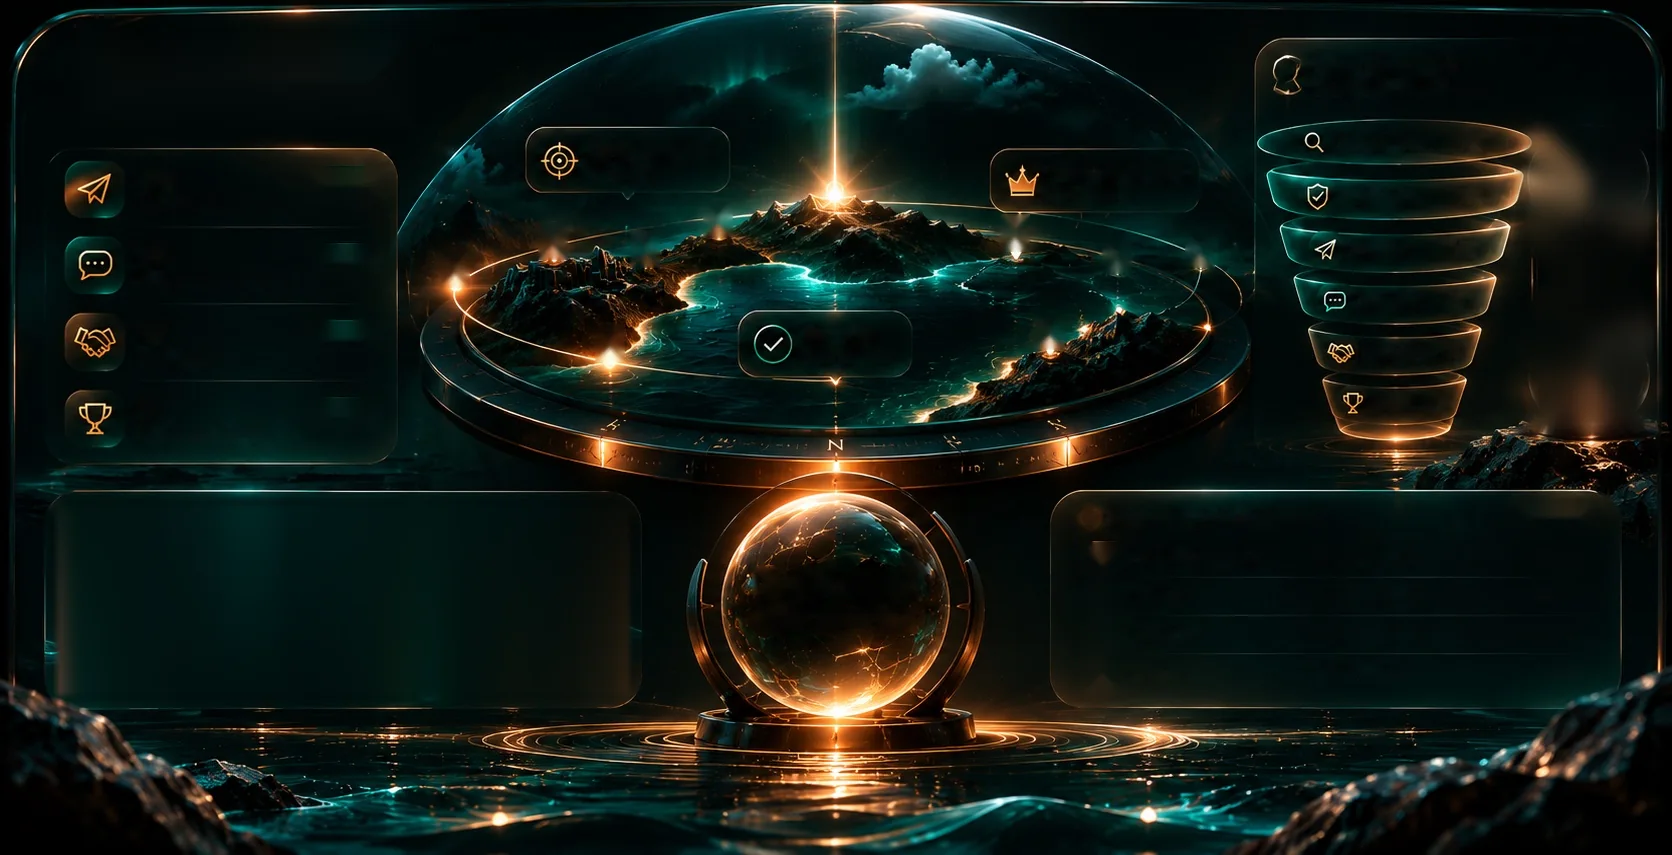
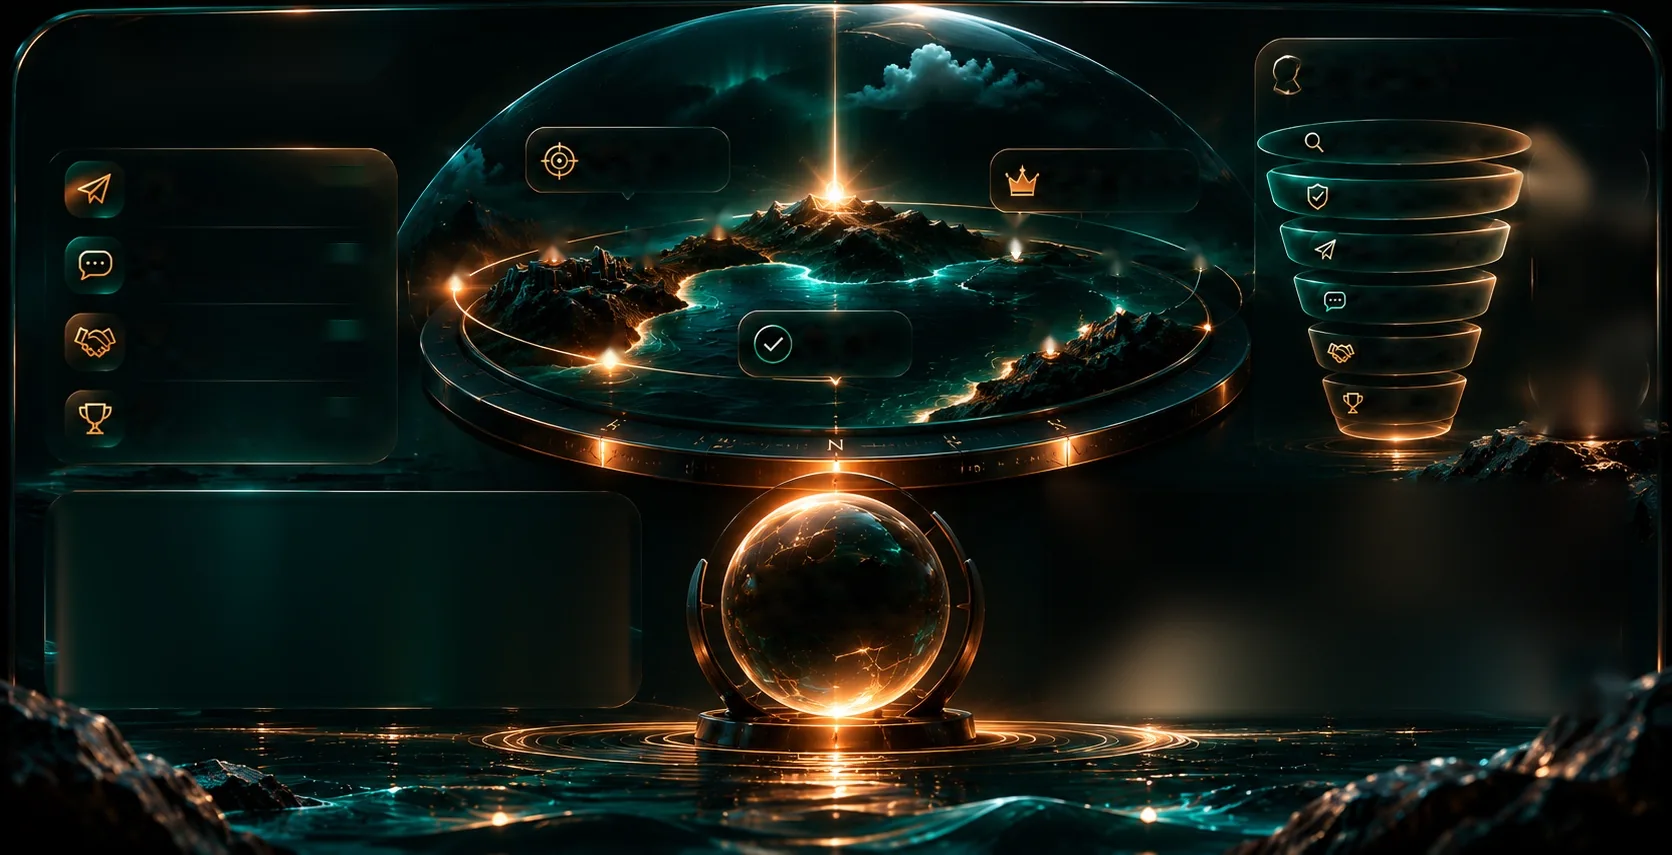
Selos dos indicadores com a cápsula da arte e remove Movimentações Recentes
Selos usam a cápsula original e mostram a variação real (ou ↑ +N quando
o mês anterior não teve registros); cores dos números e rótulos medidas
na referência. O cartão de Movimentações sai do painel e da arte, com o
fundo reconstruído.

Claude-Session: https://claude.ai/code/session_01RmfREUP7wfMtsRefbbTiFn

diff --git a/painel-prospeccao.css b/painel-prospeccao.css
@@ -16,7 +16,7 @@
 .pv-palco{position:relative;container-type:inline-size;display:grid;gap:14px;padding:14px}
 .pv-m{position:relative;container-type:inline-size;min-width:0}
 .pv-kpi{--k:calc(100cqw / 356)}.pv-cupula{--k:calc(100cqw / 867)}.pv-fluxo{--k:calc(100cqw / 422)}
-.pv-ritmo{--k:calc(100cqw / 598)}.pv-foco{--k:calc(100cqw / 355)}.pv-mov{--k:calc(100cqw / 574)}
+.pv-ritmo{--k:calc(100cqw / 598)}.pv-foco{--k:calc(100cqw / 355)}
 .pv-fundo,.pv-fx,.pv-placa,.pv-agua{position:absolute;inset:0;width:100%;height:100%;pointer-events:none}
 .pv-fx{z-index:2}
 .pv-placa,.pv-agua{display:none}
@@ -31,14 +31,19 @@
 /* Indicadores */
 .pv-kpi{aspect-ratio:356/322;width:100%;max-width:520px;justify-self:center}
 .pv-kpi .pv-fundo{background:url(ativos/painel/cena.webp) no-repeat;background-size:calc(1672 * var(--k)) auto;background-position:calc(-44 * var(--k)) calc(-144 * var(--k));border-radius:calc(22 * var(--k))}
-.pv-num{font-weight:500;color:#f7dfc6;letter-spacing:-.01em;font-variant-numeric:tabular-nums;text-shadow:0 0 14px #ffb06a2e}
-.pv-rot{color:#cbd2d0}
+.pv-num{font-weight:500;color:#f8d6a8;letter-spacing:-.01em;font-variant-numeric:tabular-nums;text-shadow:0 0 14px #ffb06a2e}
+.pv-rot{color:#c9c9c9}
 .pv-kpi-linha{z-index:4;border-radius:calc(14 * var(--k));transition:background .35s,box-shadow .35s}
 .pv-kpi-linha:hover{background:radial-gradient(80% 120% at 20% 50%,#f3a45e1c,transparent 70%);box-shadow:inset 0 0 0 1px #f3a45e2e}
-.pv-pilula{z-index:3;display:grid;place-items:center;border-radius:999px;font-size:max(calc(12.5 * var(--k)),10px);font-weight:600;color:#7ff0cb;letter-spacing:.01em;background:linear-gradient(180deg,#1b5a4ccc,#0e3a33d9);border:1px solid #6be6c247;box-shadow:inset 0 1px 0 #b6fff01f,0 0 calc(14 * var(--k)) #3fe0b828;white-space:nowrap;pointer-events:none;animation:pv-pilula 4.5s ease-in-out infinite}
-.pv-pilula.pv-queda{color:#ffb39a;background:linear-gradient(180deg,#5a2a1bcc,#3a1a10d9);border-color:#ff9f7d47}
-.pv-pilula:not(.pv-alta):not(.pv-queda){color:#b9c8c5;background:linear-gradient(180deg,#233a38cc,#13201fd9);border-color:#9fc8c033}
-@keyframes pv-pilula{50%{box-shadow:inset 0 1px 0 #b6fff01f,0 0 calc(22 * var(--k)) #3fe0b84a}}
+.pv-pilula{z-index:3;display:grid;place-items:center;pointer-events:none;overflow:visible}
+.pv-pilula img{position:absolute;inset:0;width:100%;height:100%;transition:filter .4s}
+.pv-pilula b{position:relative;font-weight:500;font-size:max(calc(13.4 * var(--k)),9px);line-height:1;letter-spacing:0;color:#3fd4c2;text-shadow:0 0 calc(5 * var(--k)) #1fd6b066;white-space:nowrap;margin-top:calc(-2.5 * var(--k));font-variant-numeric:tabular-nums}
+.pv-pilula:after{content:"";position:absolute;left:calc(12 * var(--k));top:calc(9 * var(--k));width:calc(62 * var(--k));height:calc(24 * var(--k));border-radius:999px;background:linear-gradient(100deg,transparent 30%,#d8fff533 47%,#ffffff40 50%,transparent 64%) no-repeat;background-size:260% 100%;mix-blend-mode:screen;animation:pv-selo-brilho 5.5s ease-in-out infinite;animation-delay:calc(var(--y) * -.013s)}
+@keyframes pv-selo-brilho{0%,35%{background-position:130% 0}75%,100%{background-position:-40% 0}}
+.pv-pilula.pv-queda img{filter:hue-rotate(185deg) saturate(1.35) brightness(1.05)}
+.pv-pilula.pv-queda b{color:#ffb39a;text-shadow:0 0 calc(6 * var(--k)) #ff7a4a99}
+.pv-pilula:not(.pv-alta):not(.pv-queda) img{filter:grayscale(.9) brightness(.85)}
+.pv-pilula:not(.pv-alta):not(.pv-queda) b{color:#c3cfcc;text-shadow:none}
 .pv-kpi:after{content:"";position:absolute;z-index:2;pointer-events:none;left:calc(5 * var(--k));top:calc(6 * var(--k));width:calc(346 * var(--k));height:calc(312 * var(--k));border-radius:calc(20 * var(--k));background:linear-gradient(105deg,transparent 35%,#ffffff12 48%,#7ff0cb0d 52%,transparent 65%) no-repeat;background-size:250% 100%;animation:pv-brilho 7s ease-in-out infinite}
 @keyframes pv-brilho{0%{background-position:150% 0}55%,100%{background-position:-60% 0}}
 
@@ -73,10 +78,9 @@
 
 /* Ritmo */
 .pv-ritmo{border-radius:20px;background:linear-gradient(160deg,#0f2a27e6,#071816f0 55%,#0b1f1de6);border:1px solid #84f0d83a;box-shadow:inset 0 1px 0 #c8fff01a,0 16px 30px #0006;padding:16px 14px 12px}
-.pv-ritmo .pv-fundo,.pv-mov .pv-fundo,.pv-foco .pv-fundo{display:block}
-.pv-ritmo .pv-fundo,.pv-mov .pv-fundo{display:none}
+.pv-ritmo .pv-fundo{display:none}
+.pv-ritmo-cab .pv-t{position:static;height:auto;line-height:1.25;font-size:inherit}
 .pv-ritmo-cab{position:relative;padding-left:62px;min-height:46px}
-.pv-ritmo-cab .pv-t,.pv-mov-cab .pv-t{position:static;height:auto;line-height:1.25;font-size:inherit}
 .pv-ritmo-cab .pv-tit{font-size:17px}.pv-ritmo-cab .pv-sub{font-size:12.5px;margin-top:3px}
 .pv-pulso{position:absolute;z-index:4;left:8px;top:12px;width:56px;height:44px}
 .pv-pulso img{display:block;width:100%;height:100%}
@@ -104,29 +108,6 @@
 .pv-foco-2{color:#ffc583;text-shadow:0 0 10px #ff8a3a88,0 1px 2px #000c}
 
 /* Movimentações */
-.pv-mov{border-radius:20px;background:linear-gradient(160deg,#10231fe6,#081513f0 60%,#0c1c1ae6);border:1px solid #84f0d83a;box-shadow:inset 0 1px 0 #c8fff01a,0 16px 30px #0006;padding:14px}
-.pv-mov-cab{position:relative;display:flex;align-items:center;gap:10px;padding-right:90px;min-height:28px}
-.pv-mov-cab .pv-tit{font-size:16.5px}
-.pv-mov-brilho{position:static!important;width:15px!important;height:17px!important;color:#ffb36a;filter:drop-shadow(0 0 5px #ff9a4a);animation:pv-cintila 2.6s ease-in-out infinite}
-.pv-mov-brilho .pv-icone{fill:currentColor;stroke:none}
-@keyframes pv-cintila{50%{transform:scale(.7) rotate(45deg);opacity:.7}}
-.pv-aovivo{position:absolute!important;right:0;left:auto!important;top:50%!important;translate:0 -50%;width:auto!important;height:auto!important;display:inline-flex;align-items:center;gap:7px;padding:4px 11px;border-radius:999px;background:#0f3a33cc;border:1px solid #6be6c23d;font-size:12.5px;color:#c6f6e8;white-space:nowrap}
-.pv-aovivo i{width:7px;height:7px;border-radius:50%;background:#3df0b4;box-shadow:0 0 0 0 #3df0b4aa;animation:pv-vivo 1.8s ease-out infinite}
-@keyframes pv-vivo{70%{box-shadow:0 0 0 7px #3df0b400}100%{box-shadow:0 0 0 0 #3df0b400}}
-.pv-lista{list-style:none;margin:10px 0 0;padding:0}
-.pv-mov-item{animation:pv-entra .6s cubic-bezier(.2,.7,.2,1) both;animation-delay:calc(var(--i) * 90ms)}
-@keyframes pv-entra{from{opacity:0;translate:0 8px}}
-.pv-mov-linha{position:relative!important;left:auto!important;top:auto!important;width:100%!important;height:auto!important;display:grid;grid-template-columns:36px minmax(0,1fr) auto;grid-template-rows:auto auto;column-gap:11px;row-gap:2px;align-items:center;padding:9px 4px;border-top:1px solid #8ff0da1a;border-radius:0}
-.pv-mov-item:first-child .pv-mov-linha{border-top:0}
-.pv-mov-linha .pv-t{position:static;height:auto;line-height:1.3;font-size:13.5px;min-width:0;overflow:hidden;text-overflow:ellipsis}
-.pv-mini{position:relative!important;left:auto!important;top:auto!important;width:36px!important;height:34px!important;grid-row:1/3}
-.pv-mov-nome{grid-column:2;color:#f0f4f2;font-weight:500;font-size:14px!important}
-.pv-mov-desc{grid-column:2;grid-row:2;color:var(--pv-suave);font-size:12.5px!important}
-.pv-mov-tempo{grid-column:3;grid-row:1/3;color:#cfd9d6;font-size:12.5px!important}
-button.pv-mov-linha:hover{background:linear-gradient(90deg,#f3a45e14,transparent 70%)}
-.pv-ladrilho{display:grid;place-items:center;border-radius:10px;color:#ffb36e;background:radial-gradient(110% 95% at 25% 15%,#9a5626,#4a2812 45%,#1c120b 80%);border:1px solid #f6a76459;box-shadow:inset 0 1px 0 #ffd3a44d,inset 0 -6px 10px #0006,0 0 14px #ff8a3a40;padding:6px}
-.pv-ladrilho .pv-icone{filter:drop-shadow(0 0 3px #ff9a4a99)}
-.pv-mov-vazio{padding:14px 4px 6px;color:var(--pv-suave);font-size:13px;line-height:1.5}
 
 /* Celular: balões da cúpula viram três cartões logo abaixo da ilha */
 .pv-palco:not(.pv-replica) .pv-cupula{margin-bottom:clamp(66px,19cqw,84px)}
@@ -140,7 +121,8 @@ button.pv-mov-linha:hover{background:linear-gradient(90deg,#f3a45e14,transparent
  .pv-palco:not(.pv-replica){grid-template-columns:1fr 1fr;align-items:start}
  .pv-palco:not(.pv-replica) .pv-balao .pv-t{font-size:14px}.pv-palco:not(.pv-replica) .pv-balao .pv-b2{font-size:12px}
  .pv-palco:not(.pv-replica) .pv-cupula,.pv-palco:not(.pv-replica) .pv-ritmo{grid-column:1/-1}
- .pv-palco:not(.pv-replica) .pv-fluxo{order:1}.pv-palco:not(.pv-replica) .pv-cupula{order:2}.pv-palco:not(.pv-replica) .pv-ritmo{order:3}.pv-palco:not(.pv-replica) .pv-foco{order:4}.pv-palco:not(.pv-replica) .pv-mov{order:5;align-self:center}
+ .pv-palco:not(.pv-replica) .pv-foco{grid-column:1/-1}
+ .pv-palco:not(.pv-replica) .pv-fluxo{order:1}.pv-palco:not(.pv-replica) .pv-cupula{order:2}.pv-palco:not(.pv-replica) .pv-ritmo{order:3}.pv-palco:not(.pv-replica) .pv-foco{order:4}
 }
 
 /* Desktop: a composição inteira da referência */
@@ -154,25 +136,15 @@ button.pv-mov-linha:hover{background:linear-gradient(90deg,#f3a45e14,transparent
 .pv-replica .pv-fluxo{left:calc(1250 * var(--u) * 1px);top:calc(32 * var(--u) * 1px);width:calc(422 * var(--u) * 1px);height:calc(448 * var(--u) * 1px)}
 .pv-replica .pv-ritmo{left:calc(44 * var(--u) * 1px);top:calc(490 * var(--u) * 1px);width:calc(598 * var(--u) * 1px);height:calc(220 * var(--u) * 1px)}
 .pv-replica .pv-foco{left:calc(660 * var(--u) * 1px);top:calc(469 * var(--u) * 1px);width:calc(355 * var(--u) * 1px);height:calc(335 * var(--u) * 1px)}
-.pv-replica .pv-mov{left:calc(1048 * var(--u) * 1px);top:calc(489 * var(--u) * 1px);width:calc(574 * var(--u) * 1px);height:calc(221 * var(--u) * 1px)}
 .pv-replica .pv-ritmo-cab{position:static;padding:0;min-height:0}
-.pv-replica .pv-ritmo-cab .pv-t,.pv-replica .pv-mov-cab .pv-t{position:absolute;height:0;line-height:0;font-size:var(--fs)}
+.pv-replica .pv-ritmo-cab .pv-t{position:absolute;height:0;line-height:0;font-size:var(--fs)}
 .pv-replica .pv-pulso{left:calc(var(--x) * var(--k));top:calc(var(--y) * var(--k));width:calc(var(--w) * var(--k));height:calc(var(--h) * var(--k))}
 .pv-replica .pv-grafico{position:absolute;margin:0;left:calc(4 * var(--k));top:calc(24 * var(--k));width:calc(590 * var(--k));height:calc(156 * var(--k))}
 .pv-replica .pv-dias{display:block;margin:0}
 .pv-replica .pv-dia{position:absolute;left:calc(var(--cx) * var(--k));top:calc(182 * var(--k));width:calc(64 * var(--k));height:calc(23 * var(--k));margin-left:calc(-32 * var(--k));font-size:max(calc(13.5 * var(--k)),10px)}
-.pv-replica .pv-mov-cab{position:static;padding:0;min-height:0;display:block}
-.pv-replica .pv-mov-brilho{position:absolute!important;left:calc(var(--x) * var(--k));top:calc(var(--y) * var(--k));width:calc(16 * var(--k))!important;height:calc(18 * var(--k))!important}
-.pv-replica .pv-aovivo{left:calc(var(--x) * var(--k))!important;top:calc(var(--y) * var(--k))!important;right:auto;translate:none;width:calc(var(--w) * var(--k))!important;height:calc(var(--h) * var(--k))!important;padding:0 0 0 calc(10 * var(--k));gap:calc(8 * var(--k));font-size:max(calc(13 * var(--k)),10px)}
-.pv-replica .pv-aovivo i{width:calc(8 * var(--k));height:calc(8 * var(--k))}
-.pv-replica .pv-lista{margin:0}
-.pv-replica .pv-mov-linha{position:absolute!important;display:block;padding:0;border:0;left:calc(var(--x) * var(--k))!important;top:calc(var(--y) * var(--k))!important;width:calc(var(--w) * var(--k))!important;height:calc(var(--h) * var(--k))!important;border-radius:calc(8 * var(--k))}
-.pv-replica .pv-mov-linha .pv-t{position:absolute;height:0;line-height:0;font-size:var(--fs)!important;overflow:visible}
-.pv-replica .pv-mov-tempo{transform:translateX(-100%)}
-.pv-replica .pv-mini{position:absolute!important;left:calc(var(--x) * var(--k))!important;top:calc(var(--y) * var(--k))!important;width:calc(var(--w) * var(--k))!important;height:calc(var(--h) * var(--k))!important;padding:calc(7 * var(--k));border-radius:calc(9 * var(--k))}
-.pv-replica .pv-mov-vazio{position:absolute;left:calc(36 * var(--k));top:calc(64 * var(--k));right:calc(40 * var(--k));font-size:max(calc(14 * var(--k)),11px)}
 
 /* Movimento pausado ou reduzido */
 :root.movimento-pausado .pv-painel *,:root.movimento-pausado .pv-painel *:after,:root.movimento-pausado .pv-painel *:before{animation-play-state:paused!important}
 @media (prefers-reduced-motion:reduce){.pv-painel *,.pv-painel *:before,.pv-painel *:after{animation:none!important;transition:none!important}}
-body.alto-contraste .pv-sub,body.alto-contraste .pv-rot,body.alto-contraste .pv-mov-desc{color:#e3ecea}
+
+body.alto-contraste .pv-sub,body.alto-contraste .pv-rot{color:#e3ecea}

diff --git a/painel-prospeccao.js b/painel-prospeccao.js
@@ -148,9 +148,9 @@ export function calcularPainelOrbita(estado,agora=new Date()){
 
 const animarNumero=(el,valor)=>{const de=Number(el.dataset.v||0);el.dataset.v=valor;if(de===valor||matchMedia('(prefers-reduced-motion: reduce)').matches||document.documentElement.classList.contains('movimento-pausado')){el.textContent=inteiro(valor);return;}const t0=performance.now(),dur=900;const passo=a=>{const k=Math.min(1,(a-t0)/dur),e=1-Math.pow(1-k,3);el.textContent=inteiro(Math.round(de+(valor-de)*e));if(k<1)requestAnimationFrame(passo);};requestAnimationFrame(passo);};
 const pilula=({atual,anterior})=>{
- if(!anterior){return atual?['novo','pv-alta','Primeiro registro: não há base no mês anterior']:['—','','Sem registros neste mês e no anterior'];}
+ if(!anterior){return atual?['↑ +'+inteiro(atual),'pv-alta',inteiro(atual)+' a mais que no mês anterior, que não teve registros']:['+0','','Sem registros neste mês e no anterior'];}
  const pct=Math.round((atual-anterior)/anterior*100);
- return [(pct>0?'↑ +':pct<0?'↓ ':'')+pct+'%',pct>0?'pv-alta':pct<0?'pv-queda':'',pct+'% em relação ao mês anterior'];
+ return [(pct>0?'↑ +':pct<0?'↓ −':'')+Math.abs(pct)+'%',pct>0?'pv-alta':pct<0?'pv-queda':'',(pct>0?'+':'')+pct+'% em relação ao mês anterior'];
 };
 const relativo=(quando,agora=Date.now())=>{
  const m=Math.max(0,Math.round((agora-new Date(quando))/60000));
@@ -178,7 +178,7 @@ function montar(alvo){
   h.push('<button class="pv-alvo pv-kpi-linha" '+atr(acao)+' '+caixa('kpi',58,y,334,70)+' data-pv-kpi="'+chave+'"></button>');
     h.push(tx('kpi',136,bn-.5,23.5,'pv-num','0',' data-pv-n="'+chave+'" aria-hidden="true"'));
   h.push(tx('kpi',136,bl,16.5,'pv-rot',rotulo,' aria-hidden="true"',-.035));
-  h.push('<span class="pv-pilula" aria-hidden="true" data-pv-p="'+chave+'" '+caixa('kpi',313,[258,335,412,489][i],64,25)+'>—</span>');
+  h.push('<span class="pv-pilula" aria-hidden="true" data-pv-pc="'+chave+'" '+caixa('kpi',302,[250,327,404,481][i],86,42)+'><img src="ativos/painel/selo.webp" alt=""><b data-pv-p="'+chave+'">—</b></span>');
  });
  h.push('</section>');
  /* Cúpula */
@@ -205,10 +205,6 @@ function montar(alvo){
  h.push('<section class="pv-m pv-foco" aria-label="Foco da semana"><div class="pv-fundo" aria-hidden="true"></div><canvas class="pv-fx" aria-hidden="true"></canvas>');
  h.push('<button class="pv-foco-alvo" data-pv-foco '+caixa('foco',728,600,216,180)+'>'+tx([728,600],836,679,19.3,'pv-foco-1','Foco da Semana')+tx([728,600],836,705,18,'pv-foco-2','',' data-pv="foco"',-.02)+'</button>');
  h.push('</section>');
- /* Movimentações */
- h.push('<section class="pv-m pv-mov" aria-labelledby="pv-tit-mov"><div class="pv-fundo" aria-hidden="true"></div>');
- h.push('<div class="pv-mov-cab"><span class="pv-mov-brilho" aria-hidden="true" '+caixa('mov',1058,595,16,18)+'>'+ipv('brilho')+'</span>'+tx('mov',1082,608.5,18.8,'pv-tit','Movimentações Recentes',' id="pv-tit-mov" role="heading" aria-level="3"',-.03)+'<span class="pv-aovivo" '+caixa('mov',1517,591,76,25)+'><i aria-hidden="true"></i>Ao vivo</span></div>');
- h.push('<ol class="pv-lista" data-pv-lista></ol></section>');
  h.push('</div>');
  alvo.innerHTML=h.join('');
 }
@@ -218,7 +214,7 @@ function atualizar(alvo,d,estado,visao){
  for(const [chave,rotulo] of ROTULOS_KPI.map(x=>[x[0],x[1]])){
   const k=d.kpis[chave],[texto,classe,titulo]=pilula(k);
   animarNumero($('[data-pv-n="'+chave+'"]'),k.atual||0);
-  const p=$('[data-pv-p="'+chave+'"]');p.textContent=texto;p.className='pv-pilula '+classe;p.title=titulo;
+  $('[data-pv-p="'+chave+'"]').textContent=texto;const p=$('[data-pv-pc="'+chave+'"]');p.className='pv-pilula '+classe;p.title=titulo;
   $('[data-pv-kpi="'+chave+'"]').setAttribute('aria-label',inteiroF(k.atual)+' '+rotulo.toLowerCase()+' neste mês. '+titulo+'.');
  }
  animarNumero($('[data-pv="radar"]'),d.radar);
@@ -233,15 +229,6 @@ function atualizar(alvo,d,estado,visao){
  const foco=$('[data-pv-foco]');delete foco.dataset.acao;delete foco.dataset.m;delete foco.dataset.id;
  if(a.m){foco.dataset.m=a.m;foco.dataset.id=a.id||'';}else foco.dataset.acao=a.acao;
  $('[data-pv="foco"]').textContent=a.titulo;foco.setAttribute('aria-label','Foco da semana: '+a.titulo+'. '+(a.descricao||''));foco.title=a.descricao||'';
- /* Movimentações */
- const emp=new Map((estado.empresas||[]).map(e=>[e.id,e]));
- const lista=$('[data-pv-lista]');
- lista.innerHTML=d.movimentos.length?d.movimentos.map((e,i)=>{const [desc,des]=DESENHOS_MOV[e.chave],em=emp.get(e.empresaId),nome=em?.nome||'Empresa removida',y=[626,664,702,741][i];
-  return '<li class="pv-mov-item" style="--i:'+i+'"><'+(em?'button data-empresa="'+t(em.id)+'"':'div')+' class="pv-mov-linha" '+caixa('mov',1076,y,520,38)+'>'
-  +'<span class="pv-ladrilho pv-mini" aria-hidden="true" '+caixa([1076,y],1084,y+3,38,34)+'>'+ipv(des)+'</span>'
-  +tx([1076,y],1134,648.5+i*38.4,13.4,'pv-mov-nome',t(nome),'',-.02)+tx([1076,y],1314,648.5+i*38.4,12.4,'pv-mov-desc',t(desc),'',-.02)
-  +tx([1076,y],1589,648.5+i*38.4,12.8,'pv-mov-tempo','<time datetime="'+t(e.quando)+'">'+t(relativo(e.quando))+'</time>')
-  +'</'+(em?'button':'div')+'></li>';}).join(''):'<li class="pv-mov-vazio">Nenhuma mensagem ou interação confirmada ainda. As novas ações registradas no CRM aparecem aqui.</li>';
  /* Ritmo: dados entregues ao gráfico animado. */
  const dias=$('.pv-dias');
  d.semanaDias.forEach((dia,i)=>{const b=dias.children[i];b.setAttribute('aria-label',dia.nome+': '+dia.quantidade+(dia.quantidade===1?' mensagem confirmada':' mensagens confirmadas')+(dia.futuro?' (dia ainda não chegou)':''));b.classList.toggle('pv-hoje',i===d.hojeIndice);b.classList.toggle('pv-futuro',dia.futuro);});

diff --git a/docs/PAINEL-INFERIOR.md b/docs/PAINEL-INFERIOR.md
@@ -6,21 +6,20 @@ Composição idêntica à imagem de referência do Órbita (sem o logotipo do ca
 
 | Parte | Origem dos dados |
 | --- | --- |
-| Mensagens enviadas, respostas, negociações e vendas | Eventos confirmados do mês atual; o selo compara com o mês anterior (`novo` quando não há base, `—` sem registros) |
+| Mensagens enviadas, respostas, negociações e vendas | Eventos confirmados do mês atual; o selo (cápsula da arte) mostra a variação em % sobre o mês anterior, ou `↑ +N` quando o mês anterior não teve registros |
 | Cúpula: empresas no radar, em negociação, vendas da semana | Empresas cadastradas, etapas `negociacao`/`proposta`, vendas da semana civil |
 | Pinos da ilha | Até 9 empresas (as mais avançadas e recentes); a posição é ilustrativa, não geográfica. Clique abre a empresa |
 | Fluxo Comercial | Empresas na etapa atual: Encontradas, Verificadas, Contato, Resposta (inclui demonstração), Negociação (inclui proposta), Venda |
 | Ritmo de Prospecção | Mensagens confirmadas por dia da semana civil (segunda a domingo); clique, teclado ou mouse mostram o valor exato |
 | Foco da Semana | Prioridade que `montarVisaoGeral()` já calcula; o clique executa a mesma ação |
-| Movimentações Recentes | Últimos 4 eventos (mensagem, resposta, demonstração, proposta, venda, entrada em negociação) |
-| Ampulheta | Visual: esvazia em exatamente 120 s pelo relógio absoluto, gira em 3,4 s e recomeça; não executa ações |
+| Ampulheta | Visual: vidro, tampas e areia vêm da arte; esvazia em exatamente 120 s pelo relógio absoluto, faz o giro de 7,6 s (filigrana de luz, levitação, anéis orbitais, giro, clarão, pouso, impacto) e recomeça; não executa ações |
 
 ## Arquivos
 
 - `painel-prospeccao.js` — cálculos (`calcularPainelOrbita`) e montagem; atualiza só os dados a cada mudança de estado.
 - `painel-prospeccao.css` — composição. Acima de 980 px o painel repete a referência inteira (pixels da arte 1672 × 941 convertidos por `--k`); abaixo, os módulos se empilham (duas colunas a partir de 640 px).
 - `painel/animacoes.js` — laço único: cúpula (feixe, cometas na órbita, brasas, cintilação do lago), funil, esfera (raios, faíscas, ondas), água com ondas no ponteiro. Pausa fora da tela, em aba oculta, com “Pausar ambiente” ou movimento reduzido.
-- `painel/ritmo.js` — gráfico animado em canvas.
-- `painel/ampulheta.js` — ampulheta, areia por volume e coreografia do giro.
+- `painel/ritmo.js` — gráfico: a arte da referência (`ritmo-base.webp`, `ritmo-laranja.webp`) é esticada coluna a coluna para a curva real; o brilho de cobre vai para o dia de maior volume.
+- `painel/ampulheta.js` — ampulheta (`ampulheta-*.webp`), areia remapeada pelo volume e coreografia do giro.
 - `ativos/painel/cena.webp` — a arte de referência com textos, números, pinos, gráfico e ampulheta removidos; `cupula-movel.webp` é a cúpula sem balões para o celular.
 - `ativos/painel/fontes/` — Inter (licença OFL incluída).
